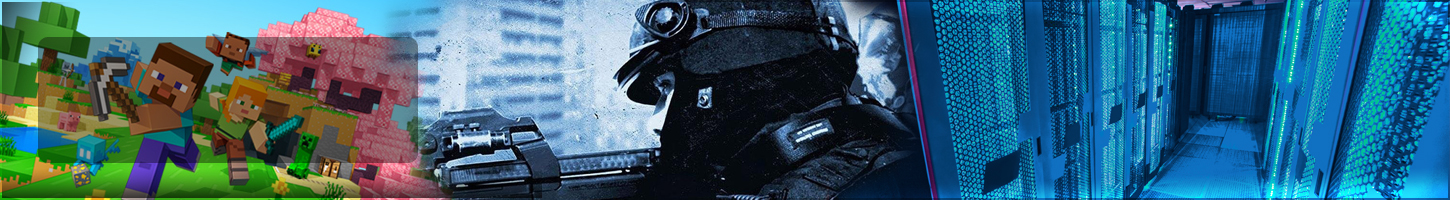
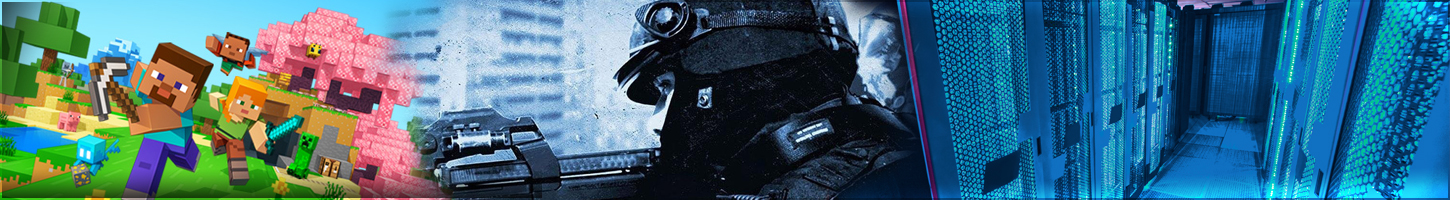
Update

Changed region(s): [[0.0, 0.18, 0.3103, 0.84]]

diff --git a/css/app.css b/css/app.css
@@ -45,7 +45,7 @@
   }
 
   header > .container > div  {
-    @apply flex justify-between w-full h-full bg-cover bg-center bg-no-repeat py-7;
+    @apply flex justify-between w-full h-full bg-cover bg-center bg-no-repeat py-7 px-5;
     background-image: url('../images/header.jpg')
   }
   header > .container > div .logo {
